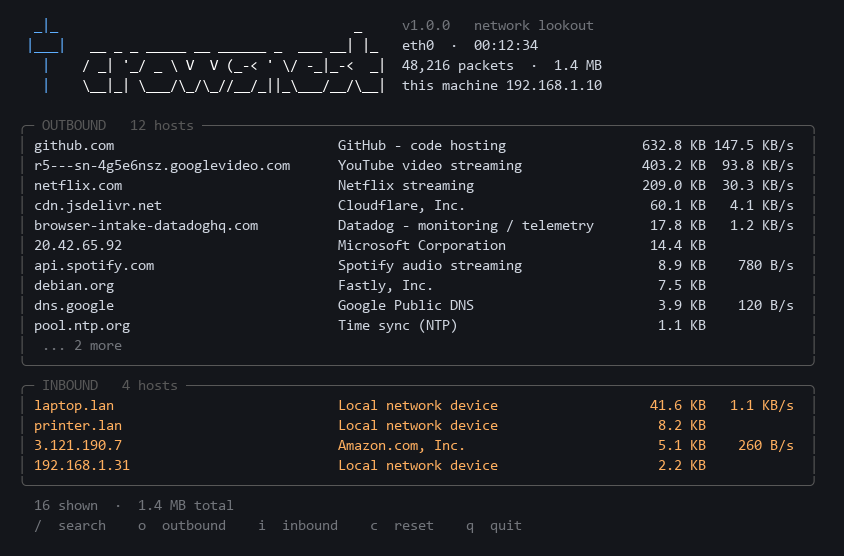
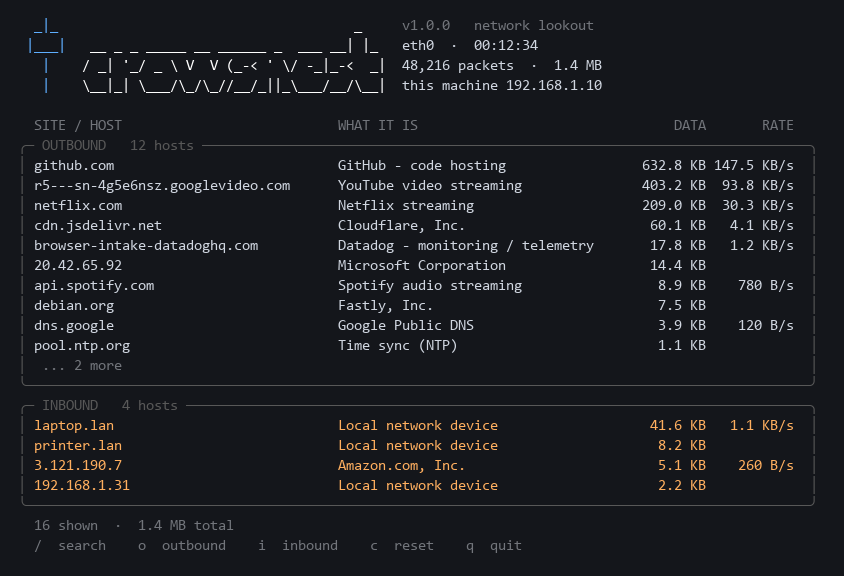
Label the dashboard columns
The panels showed a host, some text, and two numbers with nothing saying
which was which. A reader could work out that 632.8 KB was a volume, but
whether the second figure was a rate or a total was a guess.

One row of labels above both panels, since they share a geometry -- SITE /
HOST, WHAT IT IS, DATA, RATE. The widths now come from one function used by
both the labels and the rows, so they cannot drift apart: a change to the
column sizes moves the headings with the values rather than leaving them
pointing at the wrong thing.

The row costs a line, so the height sharing accounts for it. Checked across
twenty-four combinations of window height and host count that the frame
still fits without scrolling.

README image regenerated to match.

diff --git a/crowsnest.py b/crowsnest.py
@@ -345,14 +345,35 @@ def box(title: str, body: list[str], width: int, glyphs: Glyphs,
     return out
 
 
-def panel_rows(rows: list[dict], width: int, limit: int, style: Style,
-               inbound: bool, filtered: bool = False) -> list[str]:
-    """The body of a direction panel: host, what it is, volume, rate."""
+def panel_widths(width: int) -> tuple[int, int, int, int]:
+    """Column widths for a panel: host, description, volume, rate.
+
+    Worked out in one place so the labels above the panels cannot drift out of
+    step with the values inside them.
+    """
     inner = max(30, width - 4)
     rate_w, data_w = 10, 9
     flexible = inner - rate_w - data_w - 4
     site_w = max(14, int(flexible * 0.52))
     desc_w = max(10, flexible - site_w)
+    return site_w, desc_w, data_w, rate_w
+
+
+def column_labels(width: int, style: Style) -> str:
+    """Names for the columns, once, above both panels.
+
+    The two leading spaces stand in for the panel's left border and the space
+    after it, so a label sits directly over its column.
+    """
+    site_w, desc_w, data_w, rate_w = panel_widths(width)
+    return style(f"  {'SITE / HOST':<{site_w}} {'WHAT IT IS':<{desc_w}} "
+                 f"{'DATA':>{data_w}} {'RATE':>{rate_w}}", Style.DIM)
+
+
+def panel_rows(rows: list[dict], width: int, limit: int, style: Style,
+               inbound: bool, filtered: bool = False) -> list[str]:
+    """The body of a direction panel: host, what it is, volume, rate."""
+    site_w, desc_w, data_w, rate_w = panel_widths(width)
 
     body = []
     for r in rows[:limit]:
@@ -417,7 +438,7 @@ def render_dashboard(rows: list[dict], meta: dict, glyphs: Glyphs, style: Style,
     # Ten rows a panel by default. Opening one gives it whatever the window can
     # spare, and the total is clipped to the height either way, so the frame
     # always fits on one screen instead of scrolling the last one out of view.
-    spare = max(4, height - len(header) - 10)
+    spare = max(4, height - len(header) - 11)
 
     # What each panel would like: ten by default, everything once opened, and
     # never more rows than it actually has.
@@ -446,7 +467,7 @@ def render_dashboard(rows: list[dict], meta: dict, glyphs: Glyphs, style: Style,
         state = "open" if which in view.expanded else ""
         return f"{label}   {hosts(shown, total)}" + (f"   [{state}]" if state else "")
 
-    frame = header + [""]
+    frame = header + ["", column_labels(width, style)]
     frame += box(title("OUTBOUND", "out", len(outbound), len(all_out)),
                  panel_rows(outbound, width, out_limit, style, inbound=False,
                             filtered=bool(view.search)),
